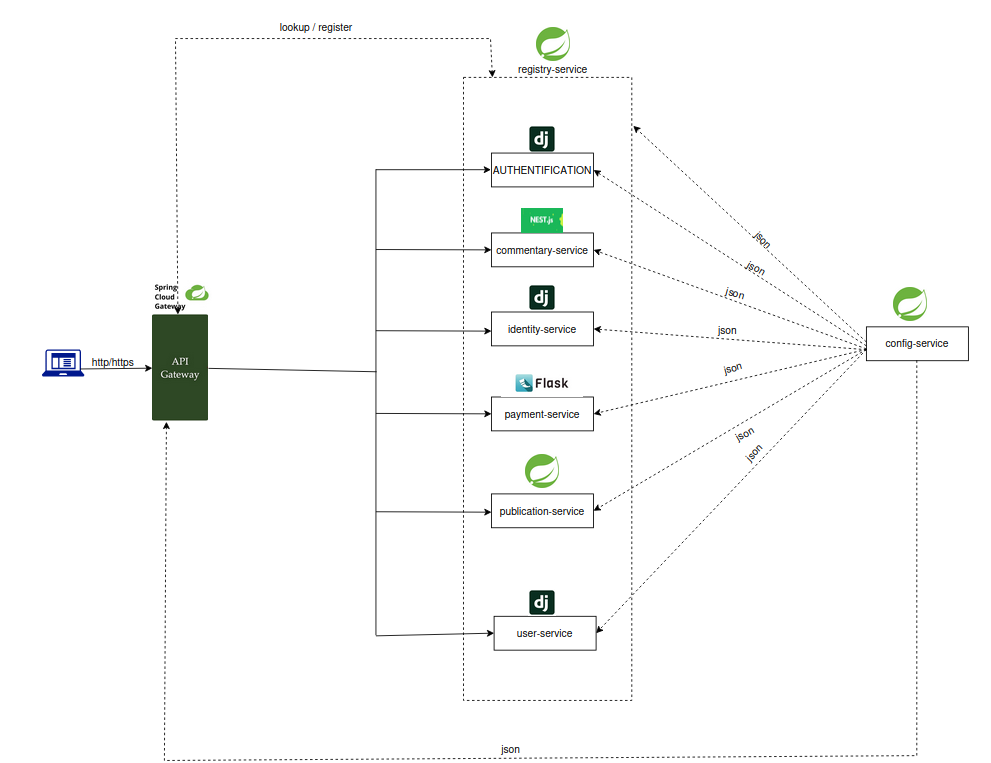
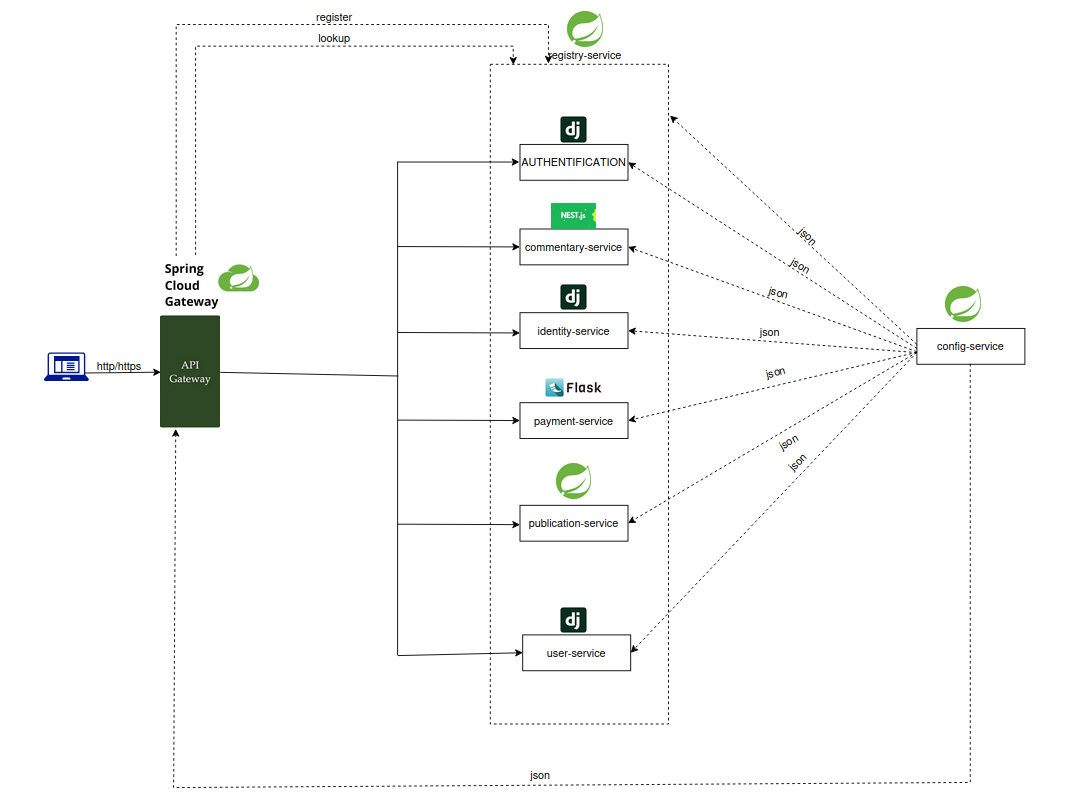
Ajout des walkthroughs 3 et des images d'architecture

diff --git a/content/walkthroughs/walkthrough-03-rabbitmq-messaging.md b/content/walkthroughs/walkthrough-03-rabbitmq-messaging.md
@@ -1,0 +1,136 @@
+---
+title: "DreamHouse-237 — #3: RabbitMQ & Messaging, and the Night I Found Strangers in My Logs"
+slug: dreamhouse237-rabbitmq-messaging
+status: draft
+tags:
+  - RabbitMQ
+  - Messaging
+  - Event-Driven
+  - Security
+  - AWS
+  - Docker
+  - Microservices
+objective: Let services stay in sync without ever calling each other directly — and figure out why my broker's logs had connection attempts I never made.
+stack: RabbitMQ 3 (management), Pika, Django, Docker Compose, AWS EC2 Security Groups
+architecture: Auth Service and User Service exchange events through RabbitMQ queues instead of calling each other's APIs; Publication, Payment, and Commentary follow the same pattern
+problems_encountered: RabbitMQ's AMQP port and management UI were reachable from outside the VPC because of how the Docker port mapping and the EC2 security group interacted
+lessons_learned:
+  - A Docker port mapping like "5672:5672" binds to every interface on the host by default — 'it works on localhost' tells you nothing about who else can reach it
+  - A management UI is still a login page. If it's public, it's an attack surface, not a convenience
+  - Decoupling services with a queue also decouples your blast radius — for better and for worse
+  - Logs are worth reading even when nothing looks broken. Mine weren't 'broken', they were being probed
+reading_time: 10
+date: 2026-07-31
+---
+
+## Services that don't call each other
+
+By the time I got Eureka and the Gateway behaving (walkthrough #2), I had a working request/response system: client hits the Gateway, Gateway resolves the right service, service answers. Clean, synchronous, easy to reason about.
+
+It's also the wrong model for some of what DreamHouse-237 needed to do. When a user signs up through **User Service**, **Auth Service** also needs to know about it — to create the login credentials. But User Service shouldn't have to know Auth Service's address, wait on it, or fail its own request because Auth happened to be slow that day. That's not a routing problem, it's a coupling problem, and the fix isn't a smarter Gateway — it's not calling directly at all.
+
+That's what RabbitMQ is doing in this architecture: services publish events into queues and move on, and whoever cares about that event picks it up whenever they're ready.
+
+## The flow: Auth and User, staying in sync without talking
+
+Here's the queue map as it stands today:
+
+| Queue | Producer | Consumer | Payload & trigger |
+|---|---|---|---|
+| `user-created` | User Service | Auth Service | `{event_id, email, password_hash, role, user_service_id, cni_recto, cni_verso}` — on every signup |
+| `user-auth-ack` | Auth Service | User Service | `{event, user_service_id, user_auth_id}` — acknowledgment after AuthUser is created |
+| `user-verified` | User Service | Auth Service | `{user_auth_id, is_verified: true}` — after email verification |
+| `user-email-queue` | Auth Service | User Service | Email sync after login — keeps both sides coherent |
+| `user-identified` | Identity Service | User Service | `{email, nom, prenom, numero_cni, status, requested_role}` — result of OCR / admin validation |
+| `payment-queue` | Publication Service | Payment Service | `{correlationId, publicationId, userId, amount, email, phone}` — CamPay payment initiation |
+| `payment-status` | Payment Service | Publication Service | `{correlationId, publicationId, status, reference}` — CamPay webhook result |
+| `publication-deleted` | Publication Service | Commentary Service | `{publication_id}` — cleanup of orphaned comments |
+
+The Auth/User pair is the one worth walking through in detail, because it's a full round trip. Here's the consumer that picks up `user_created` on the Auth side:
+
+```python
+def handle_user_created(ch, method, properties, body):
+    _close_db_connections()
+
+    from ..models import AuthUser
+    from .message_publisher import RabbitMQPublisher
+
+    data = json.loads(body)
+    email = data.get("email")
+    user_service_id = data.get("user_service_id")
+
+    if AuthUser.objects.filter(email=email).exists():
+        auth_user = AuthUser.objects.get(email=email)
+        # already exists — still ack, still keep user_service_id in sync
+    else:
+        auth_user = AuthUser(email=email, role=data.get("role", "client"))
+        auth_user.set_password(data.get("password"))
+        auth_user.save()
+
+    publisher = RabbitMQPublisher(queue="user_auth_ack")
+    publisher.publish_message({
+        "event": "user.auth_created",
+        "user_service_id": str(user_service_id),
+        "user_auth_id": str(auth_user.id),
+    })
+
+    ch.basic_ack(delivery_tag=method.delivery_tag)
+```
+
+Signup creates a `user_created` event → Auth consumes it, creates the credentials, and publishes `user_auth_ack` back → User Service picks that up and knows the loop closed. Neither service ever calls the other's API directly. If Auth is down for five minutes, the message just waits in the queue instead of the signup request failing outright.
+
+> 💭 One detail I almost glossed over, buried right at the top of the consumer: `_close_db_connections()`, called before every single message. RDS MySQL closes idle connections after a timeout, and a long-running consumer process can easily hold on to a stale connection between messages. Without that line, the consumer looks fine for a while and then starts silently failing to save anything — a bug I'd rather mention here than relive in its own walkthrough.
+
+## The night I found strangers in my logs
+
+This part of the story isn't about the messaging logic — it's about the box the messaging logic runs in.
+
+RabbitMQ, like everything else in this project, runs in Docker:
+
+```yaml
+messagebroker-service:
+  image: rabbitmq:3-management
+  container_name: messagebroker-service
+  restart: always
+  ports:
+    - "5672:5672"
+    - "15672:15672"
+  environment:
+    RABBITMQ_DEFAULT_USER: ${RABBITMQ_USER}
+    RABBITMQ_DEFAULT_PASS: ${RABBITMQ_PASSWORD}
+```
+
+Nothing here looks wrong at a glance. It's the same shape as every other `ports:` block in the project. That's exactly what made it dangerous.
+
+A Docker port mapping written as `"5672:5672"` — with no host address specified — binds to **every network interface on the host**, not just `localhost`. On a laptop behind a home router that's rarely a problem. On an EC2 instance with a public IP, it means the container is reachable from outside the box the moment the security group allows it through. And `15672` isn't just the AMQP broker — it's the full **management UI**, a real login page, sitting behind nothing but `RABBITMQ_DEFAULT_USER` / `RABBITMQ_DEFAULT_PASS`.
+
+I found out this was actually happening the boring way: **reading the logs**. RabbitMQ was logging connection attempts I hadn't made, from clients I didn't recognize, hitting the broker from outside anything my own services would ever originate from. Nothing dramatic — no alert, no scanner, no "you've been hacked" banner. Just entries that didn't belong to me, sitting quietly in output I could easily have ignored.
+
+> 🛡 This is the same lesson from walkthrough #1's "hacker" scare, but the other direction: last time, a scary-looking signal turned out to be nothing. This time, an unremarkable-looking log line turned out to be real. Both times, the only way to tell the difference was to actually go read the evidence instead of guessing from the vibe of the situation.
+
+### The fix
+
+Two changes, applied together:
+
+1. **Restricted the EC2 security group** so `5672` and `15672` were no longer reachable from `0.0.0.0/0` — only from the internal ranges that actually needed to talk to the broker.
+2. **Locked the management UI down further, to my own machine specifically** — since `15672` is an admin interface, not something any service needs to reach from outside the VPC at all, and it didn't need to be broadly available even internally.
+
+The messaging logic itself — the queues, the consumers, the Auth/User round trip — didn't change at all. The whole fix lived one layer below the application code, in the security group and in how the ports were exposed.
+
+---
+
+## What I learned from all of this
+
+- **A Docker port mapping is a network decision, not a convenience shortcut.** `"5672:5672"` reads like "make this available," and it's easy to stop thinking about it the moment `localhost` works.
+- **A management UI is still a login page.** It's tempting to treat admin dashboards as "internal by nature" because they *feel* like tooling rather than a real service — they're not, and they need the same scrutiny as anything else exposed to the internet.
+- **Decoupling has a security dimension, not just an architectural one.** Queues remove tight coupling between services, but the broker connecting them becomes a single point that, if exposed, gives an outsider a view into events from every service that publishes to it.
+- **Boring logs are worth reading.** Nothing about this incident announced itself. It looked exactly like the kind of output you scroll past on a normal day.
+
+## What's next
+
+With messaging decoupled and the broker actually secured, the next walkthrough goes back up a layer — into how a single JWT travels safely across every one of these services without each one having to re-authenticate the user from scratch.
+
+- 🚪 **Gateway, JWT & Security** — how one token safely travels across the whole system
+- 🐛 **The Django/Gunicorn deadlock** — my worst bug, and how I finally tracked it down
+
+On to the next one 👇

diff --git a/content/walkthroughs/dreamhouse237-aws-architecture.md b/content/walkthroughs/dreamhouse237-aws-architecture.md
@@ -28,7 +28,7 @@ date: 2026-07-20
 
 Let's be real: deploying **9 microservices** on AWS with a budget of $0 is asking for trouble.
 
-But that's the whole point. DreamHouse-237 is my real estate platform project (basically a tiny Zillow clone). I didn't just want "it works on my laptop." I wanted the real thing — real cloud infrastructure, real bugs, and yes, real panic at 11pm wondering why everything was on fire.
+But that's the whole point. DreamHouse-237 is my mates and i  real estate platform project (basically a tiny Zillow clone). We didn't just want "it works on our laptops." we wanted the real thing — real cloud infrastructure, real bugs, and yes, real panic at 11pm wondering why everything was on fire.
 
 I got exactly that. Some nights I genuinely wanted to close the laptop and pretend AWS didn't exist. But I survived, I learned a lot, and looking back, I'm actually a little proud of how messy this journey was. Messy means real.
 
